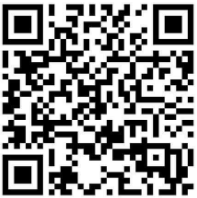
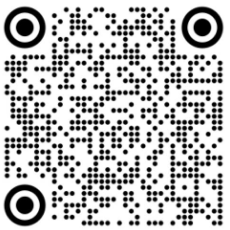
remove nha gai card, update qr code

diff --git a/index.html b/index.html
@@ -185,7 +185,7 @@
           <div
             class="flex flex-col md:flex-row justify-center items-center gap-14 p-10 z-20"
           >
-            <div
+            <!-- <div
               class="flex flex-col items-center p-4 border-stone-200 border-2 shadow-xl rounded-xl max-w-96 divide-y divide-gray-200 bg-neutral-50"
             >
               <div class="flex flex-col items-center h-[650px]">
@@ -217,12 +217,10 @@
                 class="w-full flex flex-col justify-center py-4 relative">
                 <p class="text-center pb-4 text-sm text-gray-500 dark:text-gray-400">CÙNG ĐẾM NGƯỢC THỜI GIAN</p>
                 <div class="w-full">
-                <!-- Starts component -->
                   <div
                     id="countdown1"
                     class="flex justify-center gap-2">
                   </div>
-                <!-- Ends component -->
                 </div>
               </div>
               <div class="w-full pt-4 flex flex-col items-center">
@@ -243,9 +241,9 @@
                   </svg>
                 </a>
               </div>
-            </div>
+            </div> -->
             <div
-              class="flex flex-col items-center p-4 border-stone-200 border-2 shadow-xl rounded-xl max-w-96 divide-y divide-gray-200 bg-neutral-50"
+              class="flex flex-col items-center p-4 border-stone-200 border-2 shadow-xl rounded-xl divide-y divide-gray-200 bg-neutral-50"
             >
               <div class="flex flex-col items-center h-[650px]">
                 <img
@@ -505,12 +503,12 @@
                 style="object-position: 0 25%;"
               />
               <h5 class="mt-8 mb-1 text-xl font-medium text-gray-900 dark:text-white">PHAM THANH THUY</h5>
-              <span class="text-sm text-gray-500 dark:text-gray-400">STK: 155298324</span>
-              <span class="text-sm text-gray-500 dark:text-gray-400">Ngân Hàng: VP Bank</span>
+              <span class="text-sm text-gray-500 dark:text-gray-400">STK: 0362933555</span>
+              <span class="text-sm text-gray-500 dark:text-gray-400">Ngân Hàng: VietinBank</span>
               <img
                 src="./assets/qr-codau.png"
                 alt="Event Photo"
-                class="w-24 sm:w-24 aspect-square object-cover bg-white absolute bottom-24 -left-8 z-10"
+                class="w-24 sm:w-24 aspect-square object-cover bg-white absolute bottom-24 -left-8 z-10 rounded-md"
               />
             </div>
           </div>
@@ -522,12 +520,12 @@
                 class="w-72 aspect-square object-cover p-2 bg-white rounded-full object-top"
               />
               <h5 class="mt-8 mb-1 text-xl font-medium text-gray-900 dark:text-white">NGUYEN QUANG CHINH</h5>
-              <span class="text-sm text-gray-500 dark:text-gray-400">STK: 238287348</span>
-              <span class="text-sm text-gray-500 dark:text-gray-400">Ngân Hàng: VP Bank</span>
+              <span class="text-sm text-gray-500 dark:text-gray-400">STK: 105001262355</span>
+              <span class="text-sm text-gray-500 dark:text-gray-400">Ngân Hàng: PVcomBank</span>
               <img
-                src="./assets/qr-chinh.png"
+                src="./assets/qr-chure.png"
                 alt="Event Photo"
-                class="w-24 sm:w-24 aspect-square object-cover bg-white absolute bottom-24 -left-8 z-10"
+                class="w-24 sm:w-24 aspect-square object-cover bg-white absolute bottom-24 -left-8 z-10 rounded-md"
               />
             </div>
           </div>

diff --git a/src/scripts/countdown.js b/src/scripts/countdown.js
@@ -37,5 +37,5 @@ function updateCountdown(containerId, endDate) {
 const endDate1 = new Date("2024-07-13T17:30:00").getTime();
 const endDate2 = new Date("2024-07-28T10:30:00").getTime();
 
-setInterval(() => updateCountdown("countdown1", endDate1), 1000);
+// setInterval(() => updateCountdown("countdown1", endDate1), 1000);
 setInterval(() => updateCountdown("countdown2", endDate2), 1000);
